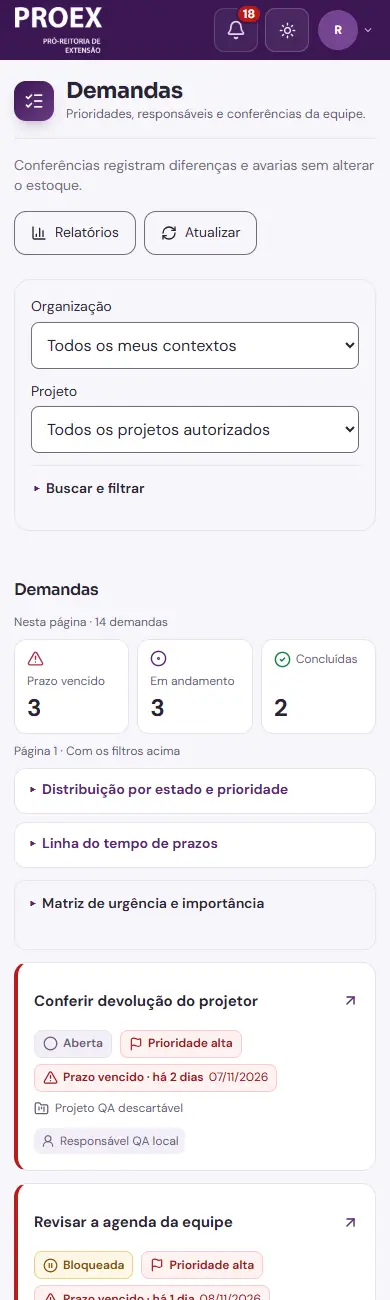
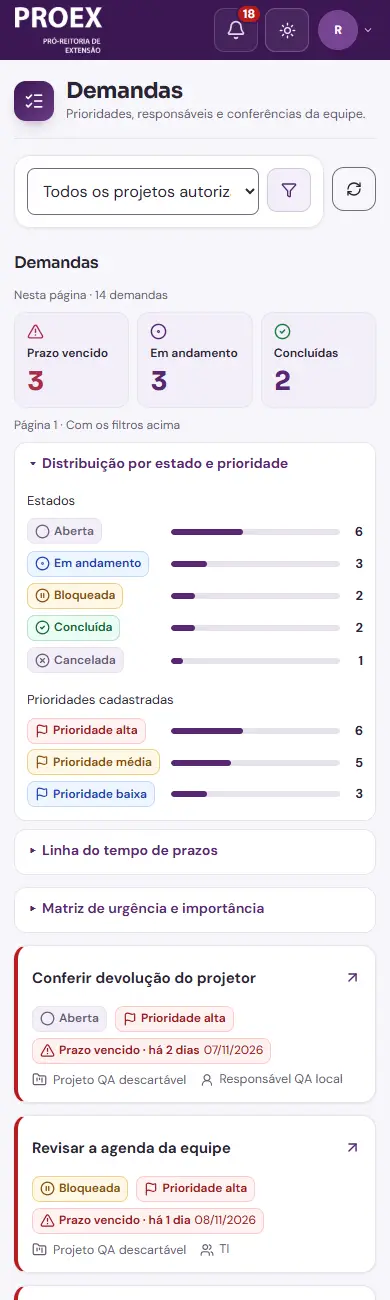
docs: registro da entrega visual de 09/11 e evidências finais

diff --git a/docs/ENTREGA-09NOV-VISUAL-E-COERENCIA.md b/docs/ENTREGA-09NOV-VISUAL-E-COERENCIA.md
@@ -8,9 +8,9 @@ Frente conduzida pelo Claude Code (sessão "visual-coerencia"), branch `claude/v
 |---|---|
 | "Refinar contexto" feio e com espaço vazio no celular | Seletor de projeto e botão de filtro na mesma linha. O painel abre logo abaixo, sem sobra. Um ponto laranja indica filtro ativo; os valores continuam no nome acessível. O `<details>` nativo foi mantido, como os testes exigem. |
 | Início pouco visual | O cabeçalho do Início virou uma faixa de boas-vindas com data e cores do Rolê (sem bloco extra: o "hero" duplicado já tinha sido removido na V14). "Meu trabalho" ganhou barra de andamento (concluídas, em andamento, a iniciar). Os cartões de resumo têm barra em duas cores. |
-| Gráficos interativos fora de Relatórios | O "Panorama" interativo da ficha do projeto agora também aparece no Início (materiais e empréstimos dos projetos selecionados). Tocar numa barra lista os registros com link para cada um, no projeto certo. Só entra o conjunto que a conta recebeu: nunca um zero no lugar de "sem acesso". |
-| Excesso de espaçamento | Cabeçalho de módulo, filtros e "Acompanhamento" ficaram mais compactos no celular. Em Materiais (390 px), o título "Materiais e estoque" subiu de cerca de 850 px para cerca de 670 px. |
-| Navegação inferior redundante | A barra do celular deixou de repetir "Conta" (fica no avatar do topo e em "Mais") e ganhou um terceiro atalho de trabalho, conforme a função. |
+| Gráficos interativos fora de Relatórios | O "Panorama" virou uma barra empilhada clicável com legenda em botões (acessível) e aparece no Início (materiais e empréstimos) e em Materiais, além da ficha do projeto. Tocar numa parte lista os registros com link, no projeto certo. Só entra o conjunto que a conta recebeu: nunca um zero no lugar de "sem acesso". Em Demandas, a distribuição por estado e prioridade abre por padrão. |
+| Excesso de espaçamento | Cabeçalho, filtros e "Acompanhamento" compactos no celular. Materiais e Dinâmicas mostram primeiro o que se usa no evento (saldo; atendimento presencial); cadastros e "Nova dinâmica" ficam recolhidos ou no fim. No celular, Materiais caiu de cerca de 4.500 para 3.350 px de altura e Dinâmicas de 3.500 para 2.200 px. Cartões de material e de demanda ficaram compactos. |
+| Navegação inferior redundante | A barra do celular deixou de repetir "Conta" (fica no avatar do topo e em "Mais") e passou a ser Início + Materiais + Dinâmicas + Demandas + Mais; módulos fixados pela pessoa vêm antes. **Premissa a confirmar com o Yan** (ver Perguntas). |
 | Demanda abrindo no projeto de origem | Conferido ponta a ponta em 390 e 1366 px: o link "Abrir projeto de origem" abre a ficha do projeto certo, sem erro de página. Na ficha, "Importar projeto" saiu de cima e fica depois da lista. |
 | Toasts, versão e ícones | Avisos com cor por tipo (sucesso, erro, alerta). Versão em pílula legível no rodapé (`Versão 2026.11.09 · <sha>`). Ícones sem repetição: "Pessoas e acessos" usa engrenagem de pessoa e "Relatórios" usa gráfico. |
 | Mesma hierarquia em todos os módulos | Títulos em Sora, texto em DM Sans, cartões com a mesma sombra e raio, blocos recolhíveis com o mesmo marcador ▸/▾, escala de texto pequena um degrau acima (nada abaixo de 10 px). |
@@ -18,8 +18,10 @@ Frente conduzida pelo Claude Code (sessão "visual-coerencia"), branch `claude/v
 ## Decisões e premissas fáceis de trocar
 
 - **Tipografia:** DM Sans e Sora (licença OFL), as mesmas fontes das peças do Rolê da Extensão encontradas no computador do Yan. Servidas pelo próprio portal. Para trocar, altere `--font-sans` e `--font-display` no fim de `app/globals.css`.
-- **Barra inferior:** Início + três atalhos (fixados primeiro, depois os recomendados para a função) + Mais.
-- **Panorama no Início:** materiais e empréstimos; atividades continuam só na ficha do projeto.
+- **Barra inferior:** Início + três atalhos (fixados primeiro; depois Materiais, Dinâmicas, Demandas e Agenda, os módulos do evento; depois os da função) + Mais. Constante `MOBILE_FIELD_MODULES` em `components/portal/portal-navigation.tsx`.
+- **Panorama:** materiais e empréstimos no Início, materiais em Materiais; atividades continuam só na ficha do projeto.
+- **Demandas no celular:** "Relatórios" sai da tela (fica em Mais e no computador); "Atualizar" vira ícone ao lado do filtro.
+- **Nomes dos filtros:** "Refinar contexto" e "Buscar e filtrar" foram mantidos porque os testes fixam esses nomes acessíveis.
 
 ## Verificação
 
@@ -34,4 +36,34 @@ Frente conduzida pelo Claude Code (sessão "visual-coerencia"), branch `claude/v
 
 ## Resultados
 
-(preenchido ao final da rodada)
+**Gates (branch, após atualizar com a `main` da PR #41):** 1.339/1.339 testes do portal, `check:types` sem erros, `lint` com 0 erros (2 avisos antigos de `<img>`), `build` e `build:node` concluídos.
+
+**Crítica independente de design (subagente só de leitura, capturas 390/1366 claro/escuro dos 14 módulos):**
+
+| Rodada | Nota | P0/P1 |
+|---|---|---|
+| Antes (produção 06/11) | 5,5 | — |
+| 1 | 6,5 | 7 P1 (estrutura no celular, barra inferior, filtros, hierarquia, cartões altos, gráficos, barras sem sentido, Início longo) |
+| 2 | 7,5 | 1 P1 novo (palavra quebrada) |
+| 3 | 8,5 | nenhum |
+| 4 (final) | **9,0** | **nenhum** |
+
+**Revisão de código "do contra" (só leitura):** nenhum P0. O P1 (fonte nova também nas telas públicas da roleta) foi corrigido: a tipografia ficou restrita ao portal autenticado. Também corrigidos: painel de importação escondido sem perder a prévia, ícone de tema vazio em telas de 320–350 px, "Abrir todos" mantendo o projeto, nome do item nos empréstimos do Panorama e testes da variante do Início.
+
+**Fluxos conferidos no navegador automatizado (390 px, dados sintéticos):** Materiais (detalhe pela seta, filtro de contexto, "Movimentar estoque" aberto, "Novo material" recolhido), Demandas (painel de filtros com Organização, abrir demanda e "Abrir projeto de origem"), Dinâmicas ("Operação presencial" primeiro, "Nova dinâmica" abre o formulário), Agenda e barra inferior ("Conta" segue em Mais). Sem erro de página nem rolagem horizontal.
+
+**Correção de teste:** `tests/my-work-markdown.test.mjs` falhava em qualquer branch em 09/11/2026 (a data de geração do arquivo batia com a data oculta procurada). A `main` recebeu a mesma correção na PR #41; ficou a versão dela.
+
+## Pendências (fora do escopo visual)
+
+- Gráfico de atendimentos e brindes por hora em Dinâmicas (precisa de dado novo).
+- Selecionar sozinho o evento quando há um só ativo em "Atendimento presencial" (lógica).
+- Plural "10 unidade" na Agenda, montado no servidor (`lib/calendar.ts`).
+- Unificar a lógica dos filtros de Agenda, Registros e Equipes no mesmo padrão "Projeto + funil".
+- P3 da crítica final: espaço do marcador em "Consumo", largura de "Novo material" em 1366, altura de "Avisos por e-mail", nomes distintos para os dois "Responsáveis e demandas" de Dinâmicas, números de "Meu trabalho" em 28 px.
+- Não verificado: celular físico e leitor de tela reais.
+
+## Perguntas para o Yan
+
+1. A barra inferior do celular ficou com Início, Materiais, Dinâmicas, Demandas e Mais. Mantemos assim (recomendado durante o CONPEEX) ou você prefere tirá-la e usar só o menu?
+2. As fontes do portal agora são DM Sans e Sora, as mesmas das peças do Rolê. Aprova, ou prefere outra tipografia institucional?

diff --git a/docs/CONTINUAR-AQUI.md b/docs/CONTINUAR-AQUI.md
@@ -1,5 +1,9 @@
 # Continuar Portal PROEX
 
+## Acabamento visual e coerência · PR42 · 2026-11-09
+
+Branch `claude/visual-coerencia-09nov` (Claude Code), PR [42](https://github.com/yandiamantinoBr/role-da-extensao-proex-ufg/pull/42), atualizada com a `main` da PR41 (níveis de brinde e foto) sem desfazer aquele trabalho. Só apresentação: tipografia própria do portal (DM Sans + Sora), filtros "Projeto + funil", Materiais/Dinâmicas/Demandas compactos no celular, Panorama clicável no Início e em Materiais, barra inferior com os módulos do evento. 1.339/1.339 testes, tipos, lint, `build` e `build:node`. Crítica independente final 9,0/10 sem P0/P1. [Entrega, pendências e perguntas](ENTREGA-09NOV-VISUAL-E-COERENCIA.md). Confirmar merge e deploy no recibo da entrega antes de tratar como produção.
+
 ## PR39 publicada sobre a PR38 · edição, estoque e eventos · 2026-11-06
 
 **Base publicada pela PR38 em 078c6aba20126956d744ac1787b9b097c106e1e8.** Vercel `dpl_Ff1LUdNVGWKPY9bb3BMpnwj7Uwxn` READY e domínio oficial vinculados ao SHA. A composição reúne edição contextual, origem/destino/SEI (0032), diretório privado (0033), avisos persistentes (0034), `/events`, marcas e datas brasileiras. [Entrega e recibo](ENTREGA-06NOV-EDICAO-ESTOQUE-E-EVENTOS.md), [brief](RODADA-06NOV-EDICAO-E-RASTREIO.md), [revisão independente](REVISAO-06NOV-SEGURANCA.md). CI42299838784 aprovou **1.310 testes do Portal + 33 do jogo**, tipos, Worker/Node e smoke. Parecer visual independente **9,1/10 no escopo**, 52 imagens sintéticas. Saúde200; APIs novas401/private,no-store; `/events`200. Chrome autenticado confirmou a nova ficha e o redirecionamento do rascunho; o índice público foi visto no celular nos dois temas.

diff --git a/apps/proex-portal/docs/evidencias/2026-11-09-visual/README.md b/apps/proex-portal/docs/evidencias/2026-11-09-visual/README.md
@@ -3,7 +3,7 @@
 Imagens **sintéticas** (servidor local descartável `scripts/qa-local.mjs`, conta `qa@proex.example.test`, projetos e materiais fictícios). Nenhum dado real.
 
 - `antes-*`: código da `main` em `97d7304` (produção de 06/11).
-- `depois-*`: branch `claude/visual-coerencia-09nov`.
+- `depois-*`: branch `claude/visual-coerencia-09nov`, versão final avaliada (rodada 4 da crítica, nota 9,0).
 - Nome: `<etapa>-<módulo>-<largura>-<tema>.webp`. Módulos: `overview` (Início), `materials`, `events` (Dinâmicas), `demands`.
 - Topo de cada tela: 1300 px no celular (390) e 1000 px no computador (1366, reduzido a 2/3).
 - `depois-refinar-aberto-*`: Materiais com "Refinar contexto" aberto no celular.
